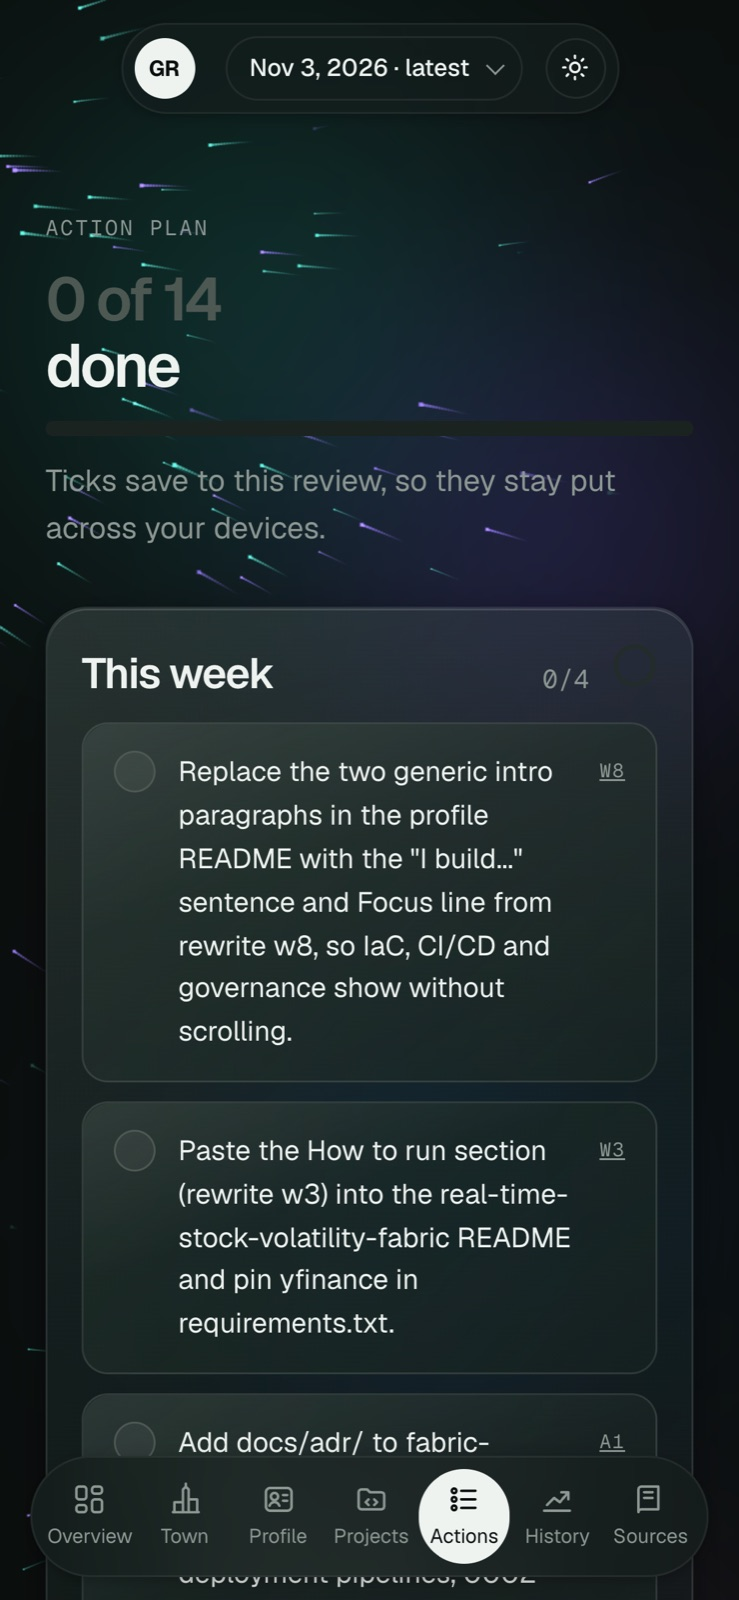
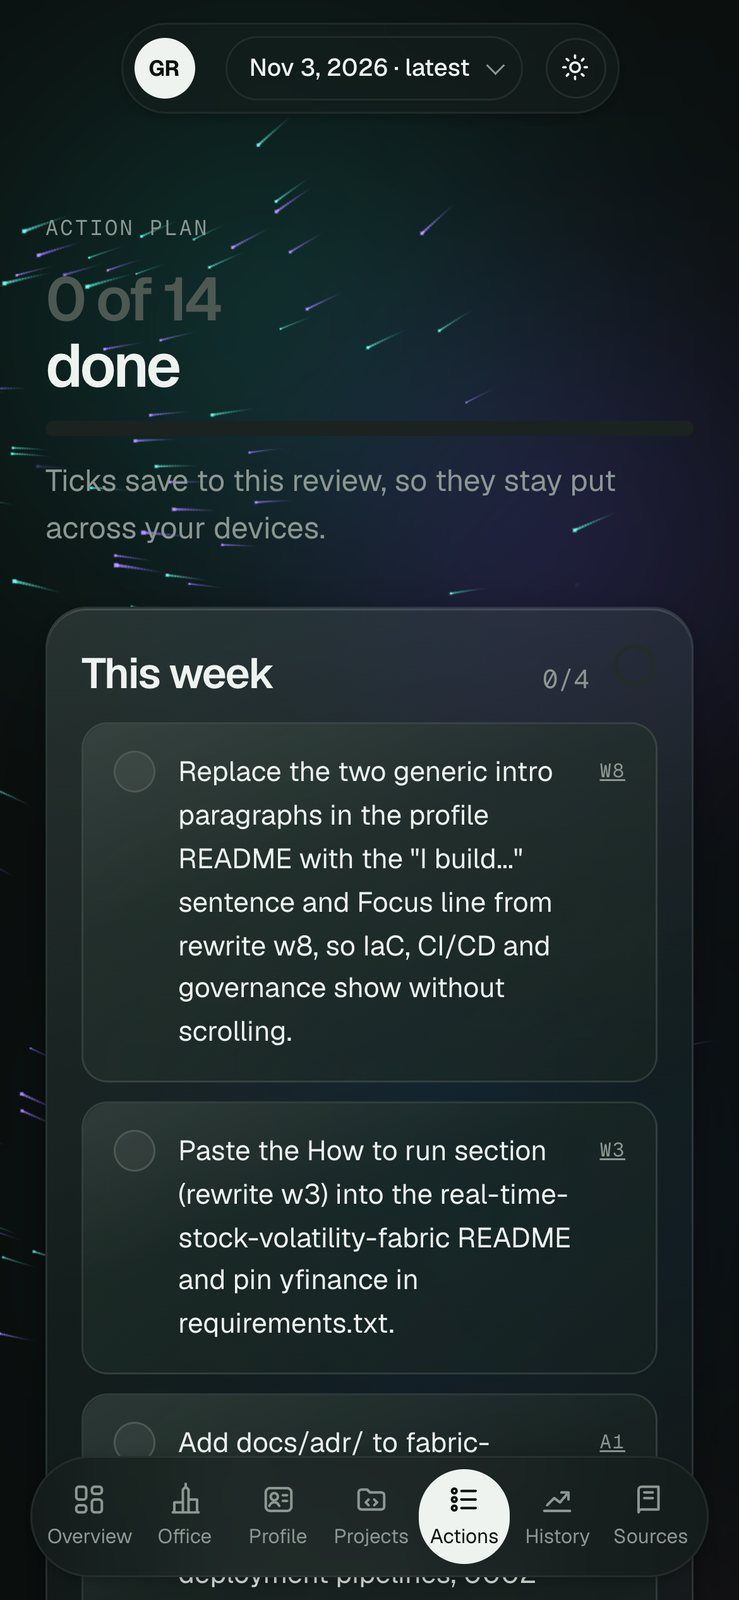
Rename the Town tab to Office
The 3D scene is one lab building for the agents, not a town. Tab label,
hero, eyebrow and messages now say Office; #town links and a saved
"town" tab still open it (rewritten to #office). README, docs and
comments follow; screenshots re-shot with the new label. The file
stays public/town.js.

diff --git a/cloudflare/public/app.js b/cloudflare/public/app.js
@@ -5,7 +5,7 @@
 "use strict";
 
 const ICONS = {
-  town: '<svg viewBox="0 0 24 24" fill="none" stroke="currentColor" stroke-width="1.8" stroke-linecap="round" stroke-linejoin="round"><path d="M3 21h18"/><path d="M10 21V5l2-2 2 2v16"/><path d="M4 21v-7h6M14 12h6v9"/><path d="M12 3V1"/></svg>',
+  office: '<svg viewBox="0 0 24 24" fill="none" stroke="currentColor" stroke-width="1.8" stroke-linecap="round" stroke-linejoin="round"><path d="M3 21h18"/><path d="M10 21V5l2-2 2 2v16"/><path d="M4 21v-7h6M14 12h6v9"/><path d="M12 3V1"/></svg>',
   overview: '<svg viewBox="0 0 24 24" fill="none" stroke="currentColor" stroke-width="1.8" stroke-linecap="round" stroke-linejoin="round"><rect x="3" y="3" width="7" height="9" rx="2"/><rect x="14" y="3" width="7" height="5" rx="2"/><rect x="14" y="12" width="7" height="9" rx="2"/><rect x="3" y="16" width="7" height="5" rx="2"/></svg>',
   profile: '<svg viewBox="0 0 24 24" fill="none" stroke="currentColor" stroke-width="1.8" stroke-linecap="round" stroke-linejoin="round"><rect x="3" y="4" width="18" height="16" rx="3"/><circle cx="9" cy="10" r="2.5"/><path d="M5.5 16.5c.8-1.8 2-2.6 3.5-2.6s2.7.8 3.5 2.6M15 9h3M15 13h3"/></svg>',
   projects: '<svg viewBox="0 0 24 24" fill="none" stroke="currentColor" stroke-width="1.8" stroke-linecap="round" stroke-linejoin="round"><path d="M3 7a2 2 0 0 1 2-2h4l2 2h8a2 2 0 0 1 2 2v8a2 2 0 0 1-2 2H5a2 2 0 0 1-2-2z"/><path d="M10 12l-2 2 2 2M14 12l2 2-2 2"/></svg>',
@@ -18,7 +18,7 @@ const ICONS = {
   merge: '<svg viewBox="0 0 24 24" fill="none" stroke="currentColor" stroke-width="1.9" stroke-linecap="round" stroke-linejoin="round"><path d="M6 4v5a5 5 0 0 0 5 5h7M18 4v16M14 10l4 4-4 4"/></svg>'
 };
 const PLUS = '<span class="plus"><svg viewBox="0 0 12 12" fill="none" stroke="currentColor" stroke-width="1.6" stroke-linecap="round"><path d="M6 1v10M1 6h10"/></svg></span>';
-const TABS = [["overview", "Overview"], ["town", "Town"], ["profile", "Profile"], ["projects", "Projects"], ["actions", "Actions"], ["history", "History"], ["sources", "Sources"]];
+const TABS = [["overview", "Overview"], ["office", "Office"], ["profile", "Profile"], ["projects", "Projects"], ["actions", "Actions"], ["history", "History"], ["sources", "Sources"]];
 const SECTIONS = [["profile", "Profile", "P", "var(--med)"], ["projects", "Projects", "J", "var(--accent)"], ["engineering", "Engineering", "E", "var(--high)"], ["architect", "Architect", "A", "var(--violet)"]];
 const ST = { pass: ["good", "Pass", "✓"], partial: ["high", "Partial", "◐"], fail: ["crit", "Fail", "✕"], na: ["", "N/A", "–"] };
 const HORIZONS = [["this_week", "This week"], ["this_month", "This month"], ["this_quarter", "This quarter"]];
@@ -384,18 +384,18 @@ function viewSources(r) {
 }
 
 /* ---------- render ---------- */
-// Town tab lives in town.js (Three.js, loaded on first open); stats load per run on demand.
+// Office tab (3D scene) lives in town.js (Three.js, loaded on first open); stats load per run on demand.
 function viewTown(r) {
-  if (!window.Town) return `<div class="empty glass"><span class="eyebrow">Town</span><h2>The 3D town didn't load</h2><p class="muted">Reload the page to try again.</p></div>`;
+  if (!window.Town) return `<div class="empty glass"><span class="eyebrow">Office</span><h2>The 3D office didn't load</h2><p class="muted">Reload the page to try again.</p></div>`;
   if (!(r.run_id in S.stats)) loadStats(r.run_id);
   return Town.view({ run: r, stats: S.stats[r.run_id], index: S.index, rules: S.rules, dark: isDark() });
 }
 async function loadStats(id) {
   S.stats[id] = undefined;
   try { S.stats[id] = await api("stats/" + encodeURIComponent(id)); } catch (e) { S.stats[id] = null; }
-  if (S.tab === "town" && S.runId === id) render(true);
+  if (S.tab === "office" && S.runId === id) render(true);
 }
-const VIEWS = { overview: viewOverview, town: viewTown, profile: viewProfile, projects: viewProjects, actions: viewActions, history: viewHistory, sources: viewSources };
+const VIEWS = { overview: viewOverview, office: viewTown, profile: viewProfile, projects: viewProjects, actions: viewActions, history: viewHistory, sources: viewSources };
 function render(soft) {
   renderNav();
   const main = $("#main");
@@ -405,7 +405,7 @@ function render(soft) {
   if (!r) { main.innerHTML = `<div class="empty glass"><span class="eyebrow">No reviews yet</span><h2>Run your first review</h2><p>In Claude Code, in the github-profile-review folder, type <code>/review-github</code>. The result appears here.</p></div>`; return; }
   document.title = TABS.find(t => t[0] === S.tab)[1] + " · GitHub Review";
   const y = scrollY, open = [...document.querySelectorAll("details.item[open]")].map(d => d.id);
-  if (S.tab !== "town" && window.Town) Town.detach();
+  if (S.tab !== "office" && window.Town) Town.detach();
   try { main.innerHTML = VIEWS[S.tab](r); }
   catch (e) { console.error(e); main.innerHTML = `<div class="empty glass"><span class="eyebrow">Error</span><h2>This run couldn't be shown</h2><p class="muted">${esc(e.message)}</p></div>`; return; }
   if (soft) {
@@ -415,7 +415,7 @@ function render(soft) {
     document.querySelectorAll("[data-rv]").forEach(el => { el._grown = true; });
   }
   fitHero(); motion();
-  if (S.tab === "town" && window.Town) Town.attach();
+  if (S.tab === "office" && window.Town) Town.attach();
   if (S.tab === "overview" && !soft) countUp();
   if (!soft && S.target) focusTarget(S.target);
 }
@@ -439,6 +439,7 @@ function countUp() {
 }
 
 function go(tab, target) {
+  tab = tabAlias(tab);
   S.tab = TABS.some(t => t[0] === tab) ? tab : "overview"; S.target = target || null;
   ls.set("gr.tab", S.tab);
   const h = "#" + S.tab + (S.target ? ":" + S.target : "");
@@ -446,7 +447,9 @@ function go(tab, target) {
   render();
   if (!S.target) scrollTo({ top: 0 });
 }
-function fromHash() { const [tab, target] = decodeURIComponent(location.hash.slice(1)).split(":"); return { tab, target }; }
+// "town" was the Office tab's old id; keep old links and saved tabs working.
+const tabAlias = (t) => (t === "town" ? "office" : t);
+function fromHash() { const [tab, target] = decodeURIComponent(location.hash.slice(1)).split(":"); return { tab: tabAlias(tab), target }; }
 
 /* ---------- scroll motion ---------- */
 let ticking = false;
@@ -538,7 +541,7 @@ document.addEventListener("click", async e => {
   const nb = e.target.closest("[data-tab]");
   if (nb) { go(nb.dataset.tab, nb.dataset.target); return; }
   const rb = e.target.closest("[data-run]");
-  if (rb) { try { await selectRun(rb.dataset.run); go(S.tab === "town" ? "town" : "overview"); } catch (err) { toast("Couldn't load that run"); } return; }
+  if (rb) { try { await selectRun(rb.dataset.run); go(S.tab === "office" ? "office" : "overview"); } catch (err) { toast("Couldn't load that run"); } return; }
   const cp = e.target.closest("[data-copy]");
   if (cp) {
     e.preventDefault(); const el = document.querySelector(`[data-text="${CSS.escape(cp.dataset.copy)}"]`); const txt = el ? el.textContent : "";
@@ -573,7 +576,8 @@ document.addEventListener("visibilitychange", async () => {
 });
 
 /* ---------- start ---------- */
-{ const h = fromHash(); S.tab = TABS.some(t => t[0] === h.tab) ? h.tab : ls.get("gr.tab") || "overview"; S.target = h.target || null; }
+{ const h = fromHash(); { const saved = tabAlias(ls.get("gr.tab")); S.tab = TABS.some(t => t[0] === h.tab) ? h.tab : TABS.some(t => t[0] === saved) ? saved : "overview"; } S.target = h.target || null; }
+if (/^#town\b/.test(location.hash)) history.replaceState(null, "", location.hash.replace(/^#town/, "#office"));
 renderNav();
 (async () => {
   try {

diff --git a/cloudflare/public/town.js b/cloudflare/public/town.js
@@ -1,4 +1,4 @@
-/* GitHub Review — Town tab. A Three.js 0.170 lab town (ES modules from jsDelivr, loaded the first
+/* GitHub Review — Office tab (file kept as town.js). A Three.js 0.170 lab office building (ES modules from jsDelivr, loaded the first
    time the tab opens) where the orchestrator and the seven subagents of /review-github replay one run
    from its stats file (scripts/agent_stats.py): who works when, what each tool call was (kind plus a
    website host or file name only), tokens and approximate cost. Every object opens a frosted card.
@@ -1603,7 +1603,7 @@ const stat = (id) => (O.stats && O.stats.agents && O.stats.agents[id]) || null;
 function buildStage() {
   const st = document.createElement("div");
   st.className = "of-stage";
-  st.innerHTML = `<canvas class="of-canvas" aria-label="3D lab town: the orchestrator and seven subagents replaying the selected run. Click any building, robot, pod or the spaceship for its numbers."></canvas>
+  st.innerHTML = `<canvas class="of-canvas" aria-label="3D lab office: the orchestrator and seven subagents replaying the selected run. Click any building, robot, pod or the spaceship for its numbers."></canvas>
     <div class="of-labels off"></div>
     <div class="tw-hint" hidden></div>
     <div class="of-msg" role="status" hidden></div>
@@ -1637,7 +1637,7 @@ function showMsg(text) { O.msg.textContent = text || ""; O.msg.hidden = !text; }
 async function ensureScene() {
   if (O.town || O.booting) return;
   O.booting = true;
-  showMsg("Building the town…");
+  showMsg("Building the office…");
   try {
     const create = await loadScene();
     if (document.fonts && document.fonts.ready) await document.fonts.ready;
@@ -1658,7 +1658,7 @@ async function ensureScene() {
   } catch (e) {
     console.error(e);
     scenePromise = null;
-    showMsg("Couldn't load the 3D town. It needs cdn.jsdelivr.net; the numbers below still work.");
+    showMsg("Couldn't load the 3D office. It needs cdn.jsdelivr.net; the numbers below still work.");
   } finally {
     O.booting = false;
   }
@@ -1971,15 +1971,15 @@ function view(ctx) {
   const card = `<section class="glass of-card tw-town">
     <div class="of-slot" id="twSlot"></div>
     <div class="of-head">
-      <span class="eyebrow">Town${r ? " · " + esc(fmtDay(r.run_at)) : ""}</span>
+      <span class="eyebrow">Office${r ? " · " + esc(fmtDay(r.run_at)) : ""}</span>
       <div class="of-tools"><button class="of-btn" type="button" data-tw="reset">Reset view</button><button class="of-btn" type="button" data-tw="pause" aria-pressed="${O.userPaused}">${O.userPaused ? "Play" : "Pause"}</button></div>
-      <h2 class="of-title"><span class="tone">Eight agents,</span>one lab town</h2>${note ? `<span class="of-note">${esc(note)}</span>` : ""}
+      <h2 class="of-title"><span class="tone">Eight agents,</span>one office</h2>${note ? `<span class="of-note">${esc(note)}</span>` : ""}
     </div>
     <div class="of-status" id="twStatus" aria-live="polite"><i></i><div><b></b><span></span></div></div>
   </section>`;
   const facts = r ? runTiles(r) : "";
   if (!st) {
-    const empty = st === null ? `<section class="glass card"><div class="sec-h"><h2>No agent usage for this run yet</h2></div><p class="muted">Step 5 of <code>/review-github</code> runs <code>scripts/agent_stats.py</code> and publishes tokens, cost and timing per agent. Until then the town runs in ambient mode; every building, robot, pod and the spaceship still opens its card.</p></section>` : "";
+    const empty = st === null ? `<section class="glass card"><div class="sec-h"><h2>No agent usage for this run yet</h2></div><p class="muted">Step 5 of <code>/review-github</code> runs <code>scripts/agent_stats.py</code> and publishes tokens, cost and timing per agent. Until then the office runs in ambient mode; every building, robot, pod and the spaceship still opens its card.</p></section>` : "";
     return `<div class="tw-wrap">${card}${facts}${empty}</div>`;
   }
   return `<div class="tw-wrap">${card}${tiles(st)}${timeline(st)}

diff --git a/cloudflare/functions/api/[[path]].js b/cloudflare/functions/api/[[path]].js
@@ -2,7 +2,7 @@
 //   GET /api/index                     index (newest first: run_id, run_at, overall, sections)
 //   GET /api/run/<RUN_ID>              run document (schema v1)
 //   GET /api/profile/<RUN_ID>          collector profile
-//   GET /api/stats/<RUN_ID>            per-agent tokens, cost and timing (scripts/agent_stats.py; Town tab)
+//   GET /api/stats/<RUN_ID>            per-agent tokens, cost and timing (scripts/agent_stats.py; Office tab)
 //   GET /api/checks                    Actions ticks {"<RUN_ID>__<action id>": {done, at}}
 //   PUT /api/checks/<RUN_ID>/<id>      body {"done": true|false}
 // Cloudflare Access sits in front of the site; this function also verifies the Access token itself so

diff --git a/scripts/publish.py b/scripts/publish.py
@@ -6,7 +6,7 @@ Usage:
   python3 scripts/publish.py --all      re-put every local run and rebuild index
   python3 scripts/publish.py --check    wrangler logged in and the namespace reachable
   python3 scripts/publish.py --stats <RUN_ID>   put stats:<id> (data/stats, from agent_stats.py) and
-                                        add its usage summary to that run's index entry (Town tab)
+                                        add its usage summary to that run's index entry (Office tab)
   add --local to any of them to write the local KV that `npm run dev` in cloudflare/ serves
 
 KV keys:  run:<RUN_ID>  profile:<RUN_ID>  stats:<RUN_ID>
@@ -88,7 +88,7 @@ def put_json(env: dict, key: str, value) -> bool:
 
 
 def usage_of(rid: str):
-    """Small per-run usage summary for the index (Town tab run comparison), or None without stats."""
+    """Small per-run usage summary for the index (Office tab run comparison), or None without stats."""
     path = ROOT / "data" / "stats" / f"{rid}.json"
     if not path.exists():
         return None

diff --git a/scripts/agent_stats.py b/scripts/agent_stats.py
@@ -1,5 +1,5 @@
 #!/usr/bin/env python3
-"""Per-agent token, cost and timing stats for one run, for the app's Town tab.
+"""Per-agent token, cost and timing stats for one run, for the app's Office tab.
 
 Ported from the LinkedIn Review project. Reads the Claude Code transcripts of
 the session that ran /review-github (one file per subagent plus the main

diff --git a/README.md b/README.md
@@ -8,13 +8,13 @@ This is a Claude Code multi-agent system that reviews a GitHub profile against a
 - Next, **four reviewers** run in parallel: Profile, Projects, Engineering signal and Architect layer.
 - Finally, a **synthesis** agent merges their reviews into one validated, scored run.
 
-A private Cloudflare web app shows the result on desktop and iPhone. Its 3D **Town** tab
-replays each run, with the agents as robots in a lab town.
+A private Cloudflare web app shows the result on desktop and iPhone. Its 3D **Office** tab
+replays each run, with the agents as robots in a lab office building.
 
 One command runs everything: `/review-github`. The system uses only a Claude subscription: Claude Code subagents plus
 the `gh` CLI, with no API keys.
 
-![The Town tab replaying a /review-github run, dark mode](docs/town-dark.jpg)
+![The Office tab replaying a /review-github run, dark mode](docs/office-dark.jpg)
 
 ![Claude Code](https://img.shields.io/badge/Claude%20Code-8%20agents-D97757)
 ![GitHub CLI](https://img.shields.io/badge/gh%20CLI-read--only-181717?logo=github&logoColor=white)
@@ -37,7 +37,7 @@ the `gh` CLI, with no API keys.
 - [Results and scorecard](#results-and-scorecard)
 - [Pipeline metrics](#pipeline-metrics)
 - [The web app](#the-web-app)
-- [The Town](#the-town)
+- [The Office](#the-office)
 - [Design choices](#design-choices)
 - [Project layout](#project-layout)
 - [Run it yourself](#run-it-yourself)
@@ -77,7 +77,7 @@ This system makes the review **specific, evidenced and repeatable**:
 | **Validation** | `validate_run.py` checks the schema version, required sections, unique ids across findings, rewrites and briefs, and that every reference resolves. Nothing is published unless it prints OK |
 | **Agent telemetry** | `agent_stats.py` reads the Claude Code transcripts and records tokens, approximate cost, timing and tool-call kinds per agent (numbers only) |
 | **Web app** | Vanilla JS with no build step and seven tabs. Light/dark themes, a mobile bottom bar and a home-screen app on iPhone. Actions ticks are saved to KV and sync across devices |
-| **The Town** | A three.js replay of each run: robots, rooms, a tower, a rocket that launches on publish, score pillars per repo and frosted info cards on click |
+| **The Office** | A three.js replay of each run: robots, rooms, a tower, a drone, a rocket that launches on publish, score pillars per repo and frosted info cards on click |
 
 ## Architecture
 
@@ -104,7 +104,7 @@ flowchart TB
         direction LR
         KV[("Workers KV")]
         F["Pages Function<br/>/api/* + JWT check"]
-        P["Web app<br/>7 tabs + Town"]
+        P["Web app<br/>7 tabs incl. Office"]
     end
 
     GH -->|"GraphQL + REST"| CO
@@ -203,7 +203,7 @@ sequenceDiagram
 | 2 | 4 reviewers | Run in parallel; each writes one JSON file to `data/work/<RUN_ID>/` |
 | 3 | Synthesis | Merges the reviews, runs `scoring.py`, writes `data/runs/<RUN_ID>.json` |
 | 4 | Orchestrator | `validate_run.py` → `publish.py` to Workers KV |
-| 5 | Orchestrator | `agent_stats.py` → `publish.py --stats` for the Town tab |
+| 5 | Orchestrator | `agent_stats.py` → `publish.py --stats` for the Office tab |
 | 6 | Orchestrator | A short report: score, top fixes, plan, what changed |
 
 ## Results and scorecard
@@ -378,7 +378,7 @@ iPhone. A run picker switches between every published run.
 | Tab | Shows |
 |---|---|
 | **Overview** | The overall score with the headline fix, section bars, the top fixes and the full rule × repo scorecard |
-| **Town** | The 3D pipeline replay plus agent metrics (below) |
+| **Office** | The 3D pipeline replay plus agent metrics (below) |
 | **Profile** | Header card, P1–P5 with evidence and fixes, paste-ready bio and README rewrites |
 | **Projects** | Portfolio verdicts, repo scores, per-repo findings across J, E and A, replacement briefs |
 | **Actions** | This week / month / quarter plan with a checklist saved to KV |
@@ -398,28 +398,30 @@ iPhone. A run picker switches between every published run.
 
 <img src="docs/app-projects.jpg" alt="Projects tab in dark mode: portfolio verdicts and repo scores" width="100%">
 
-## The Town
+## The Office
 
-The Town is a 3D tab ([`cloudflare/public/town.js`](cloudflare/public/town.js)). It uses three.js 0.170 ES modules from
+The Office is a 3D tab ([`cloudflare/public/town.js`](cloudflare/public/town.js)). It uses three.js 0.170 ES modules from
 jsDelivr and loads the first time the tab opens. It shows the **pipeline**, not the analysis.
 
-![The Town in light mode](docs/town-light.jpg)
+![The Office in light mode](docs/office-light.jpg)
 
-- **The scene:** a white lab town with a central tower and a multi-tier platform. Each agent has an alcove room (server
-  racks, monitor desks, a hologram table), and a plaza holds a radial compute core and a rocket on its deploy pad.
+- **The scene:** one white lab building seen from above: two terrace levels, a central tower with a glowing
+  glass slot and a rooftop compute core. Each agent has its own room (a library, review labs with wall screens,
+  a command deck), and a rocket waits on its deploy pad.
 - **Robots and replay:** eight robots with floating heads and glowing visors replay the run as a loop of under a minute (about 17× for this run). They walk to
   the briefing, work in their rooms and hand results back. Status bubbles show what each one is doing,
   based on its real tool calls.
+- **Benchmark drone:** a drone with a glass brain flies out while the benchmark agent studies the north stars.
 - **Score pillars:** one hex hologram pillar per in-scope repo, coloured by its score.
 - **Publishing:** the rocket launches when the run is published.
 - **Interaction:** click any robot, room, pillar or the core to open a frosted card with its goal, tokens, cost,
   time and tool calls. Drag to turn and scroll to zoom. Reset view and Pause are in the corner.
-- **Rendering:** ACES tone mapping, soft shadows, selective bloom on neon edges and static batching keep the frame
+- **Rendering:** neutral (light) and ACES (dark) tone mapping, soft shadows, selective bloom on neon edges and static batching keep the frame
   rate near 60 fps on a MacBook. It runs in light and dark themes.
 - **Metrics below the scene:** totals, a **Run replay** timeline, **Where the cost goes** by token type, and
   **Compare runs** across every run with stats.
 
-![Run replay, cost by token type and run comparison](docs/town-metrics.jpg)
+![Run replay, cost by token type and run comparison](docs/office-metrics.jpg)
 
 The data comes from `scripts/agent_stats.py`. It writes only numbers, tool-event kinds and generic file
 names, never prompts, commands or profile content.
@@ -462,11 +464,11 @@ scripts/
   scoring.py                        scores exactly as rules.md defines them
   validate_run.py                   checks a run before publishing
   publish.py                        puts runs, profiles, stats and the index into KV (--local for dev)
-  agent_stats.py                    per-agent tokens, cost, timing for the Town tab
+  agent_stats.py                    per-agent tokens, cost, timing for the Office tab
   build_app.py                      rules.md → public/rules.json
 cloudflare/
   functions/api/[[path]].js         /api/* over KV, verifies the Access JWT
-  public/                           index.html, app.js, app.css, theme.js, town.js, icons, manifest, _headers (CSP)
+  public/                           index.html, app.js, app.css, theme.js, town.js (Office tab), icons, manifest, _headers (CSP)
   wrangler.toml                     KV binding, Access team domain and AUD
 docs/                               screenshots used in this README
 data/                               runs, profiles, stats, work files (gitignored)

diff --git a/CLAUDE.md b/CLAUDE.md
@@ -20,7 +20,7 @@ Sister project: `../linkedin-multi-agent-profile-review` (same patterns).
   scripts/validate_run.py → scripts/publish.py → Cloudflare KV
                           (keys run:<id>, profile:<id>, index; checks = app)
   scripts/agent_stats.py  → data/stats/<RUN_ID>.json → publish.py --stats
-                          (key stats:<id> + index usage; Town tab)
+                          (key stats:<id> + index usage; Office tab)
   → Cloudflare Pages "github-review" (Access) renders it
 ```
 RUN_ID = `r<YYYYMMDD>-<HHMM>` in America/Bogota time (`scripts/new_run.py`).
@@ -33,7 +33,7 @@ RUN_ID = `r<YYYYMMDD>-<HHMM>` in America/Bogota time (`scripts/new_run.py`).
   localhost only.
 - Local preview: `npm --prefix cloudflare run dev` (port 8791, launch config
   `github-review`), fed by `python3 scripts/publish.py <RUN_ID> --local`.
-- Town tab: `public/town.js`, a Three.js 0.170 lab town (ES modules from
+- Office tab: `public/town.js`, a Three.js 0.170 lab office (ES modules from
   jsDelivr, loaded the first time the tab opens; CSP allows only that path).
   Robots replay the run from `stats:<id>`; every object opens a frosted card.
 

diff --git a/context/schema.md b/context/schema.md
@@ -108,10 +108,10 @@ Unknown values are `null` / `[]`, never guessed; say why in `missing_fields`.
 ```
 Must stay under 240 KB. Older runs must keep rendering when fields are added.
 
-## stats.json (scripts/agent_stats.py → the Town tab)
+## stats.json (scripts/agent_stats.py → the Office tab)
 Numbers only, read from the Claude Code transcripts after publishing; never
 prompts, commands or outputs. Separate from the run document (no schema
-version bump); a run without stats still renders, the Town tab says so.
+version bump); a run without stats still renders, the Office tab says so.
 ```json
 {
   "run_id": "", "run_at": "", "wall_s": 0, "price_basis": "",

diff --git a/.claude/skills/review-github/SKILL.md b/.claude/skills/review-github/SKILL.md
@@ -51,7 +51,7 @@ the four review paths, RUN_ID, RUN_AT, output `run_out`.
    error and stop.
 3. Never commit anything from `data/`: it is gitignored on purpose.
 
-## Step 5 — Agent stats (Town tab)
+## Step 5 — Agent stats (Office tab)
 1. `python3 scripts/agent_stats.py <RUN_ID>` — expect `OK` (writes
    `data/stats/<RUN_ID>.json`: numbers only, no prompts or outputs). On
    SKIP/FAIL say so in one line and go on to the report.
